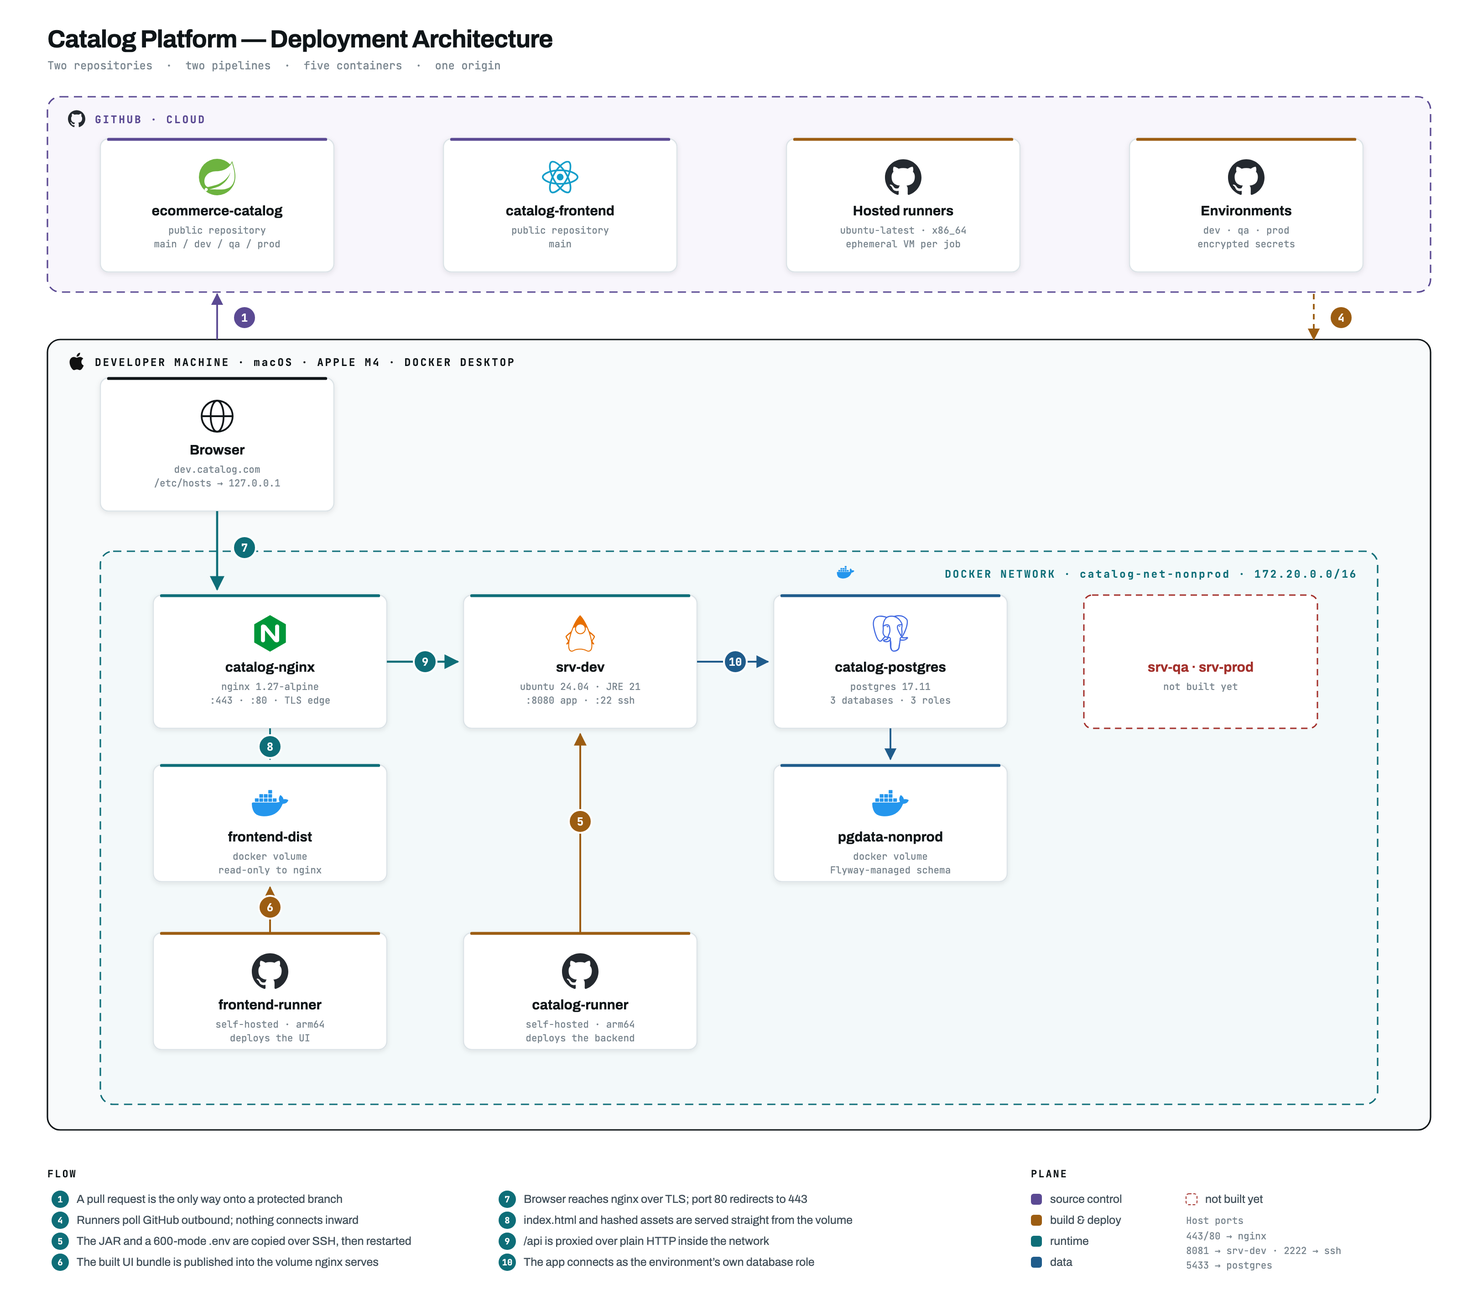
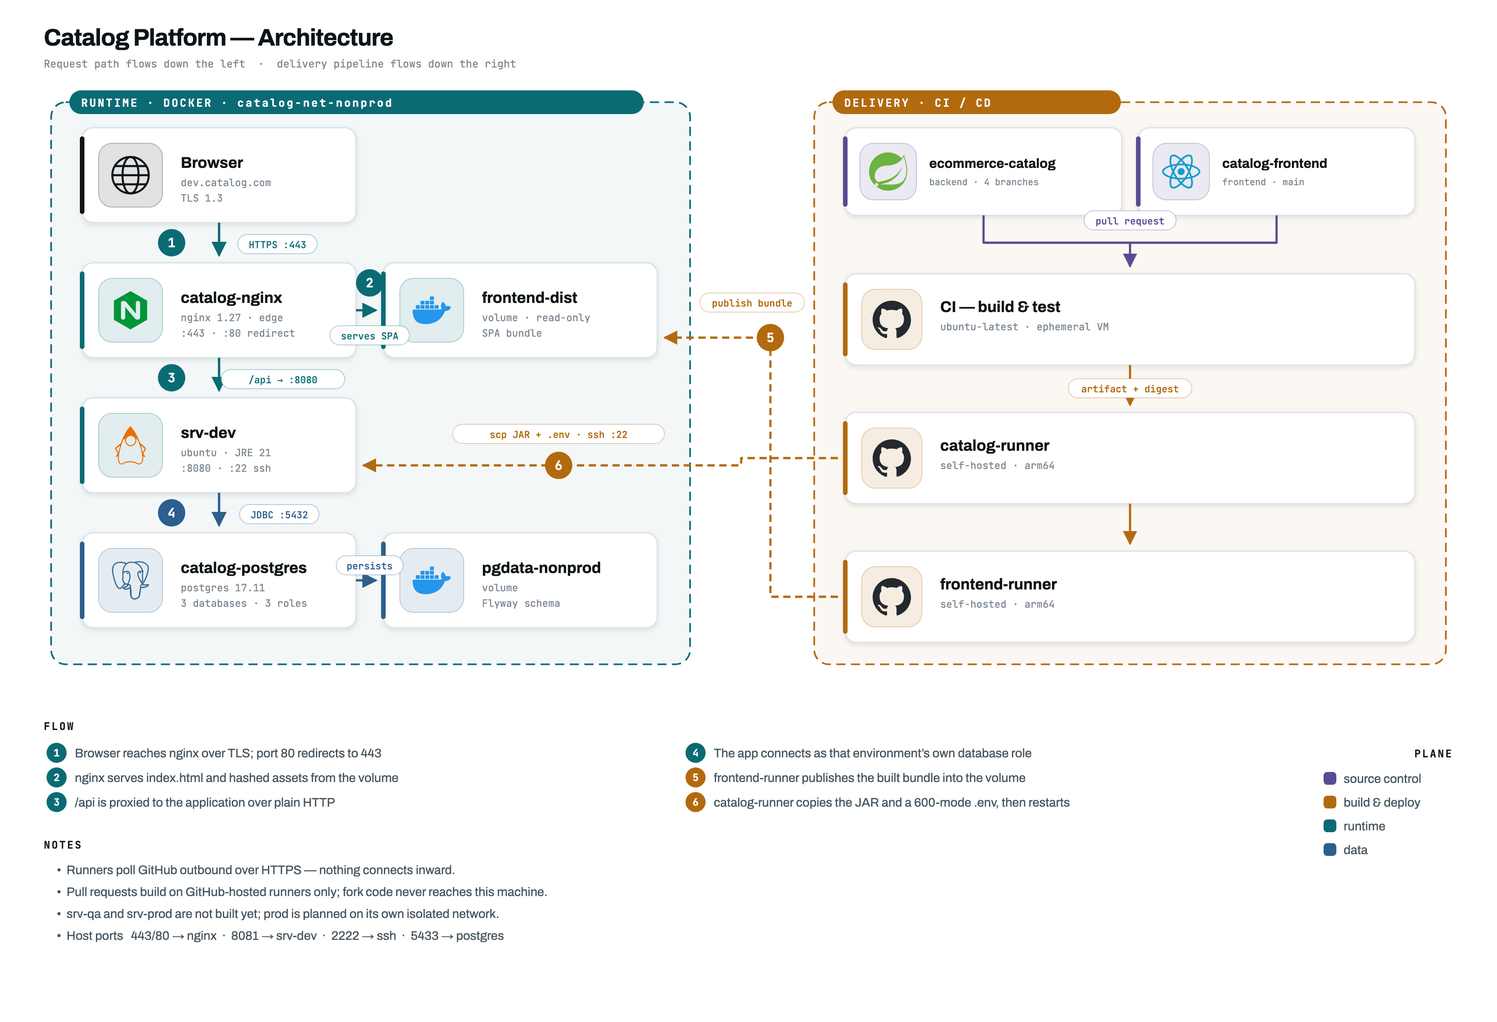
Redraw the architecture diagram to standard conventions
Researched how AWS and general architecture diagrams are actually built,
then rebuilt against those rules rather than guessing again.

What the previous version broke:
- Flow direction was inconsistent. Arrows went down, right and up, so
  there was no line to follow. Now each column flows strictly top to
  bottom: the request path down the left, the delivery pipeline down the
  right, and two dashed connectors crossing right to left for the two
  deployments.
- A connector ran straight through the catalog-frontend card, and its
  label sat on top of it. The repositories are side by side now, so the
  branches converge into CI without crossing anything.
- Colour was a 3px hairline on each card. Icons are now 60px inside
  tinted tiles, so category colour is visible at a glance - the icon
  leads, which is what makes these diagrams readable.
- Detail was crammed into the boxes. Each card carries a name and two
  short lines; everything else moved to a numbered flow key and notes.
- The "developer machine" container was a large empty box adding no
  information. Removed, along with the ghost qa/prod node, which is now
  a note instead.

Every connector is labelled with its protocol, and no connector crosses
a node or points into empty space.

diff --git a/docs/generate-architecture.py b/docs/generate-architecture.py
@@ -2,182 +2,207 @@
 """
 Generates docs/architecture.svg.
 
-Every fact in the diagram is read from the live system rather than drawn
-from memory: container names, images, IP addresses, published ports and
-the network CIDR come from `docker network inspect`, and the branch,
-environment and workflow facts from `gh api`.
+Layout follows the conventions in AWS and general architecture-diagram
+guidance: one flow direction per column and keep to it; no connector
+crossing a node or pointing into empty space; protocol labels on the
+connectors; numbered call-outs where a step needs more than a label;
+grouping containers only where they add clarity; category colour carried
+by the icon tile rather than a hairline.
 
-Brand marks are the real logos from simple-icons, embedded as paths, so
-the SVG has no external references and renders anywhere.
+Left column  - the request path, top to bottom.
+Right column - the delivery pipeline, top to bottom.
+Dashed arrows cross right to left: the two deployments.
+
+Every fact is read from the live system rather than drawn from memory:
+container names, images, ports and the network CIDR from docker inspect,
+and the branch, environment and workflow facts from gh api. Brand marks
+are the real logos from simple-icons, embedded as paths, so the SVG has
+no external references.
 
 Render to PNG:
   python3 docs/generate-architecture.py
   "/Applications/Google Chrome.app/Contents/MacOS/Google Chrome" \\
-    --headless --force-device-scale-factor=2 --window-size=1620,1420 \\
+    --headless --force-device-scale-factor=2 --window-size=1640,1120 \\
     --screenshot=docs/architecture.png file://$PWD/docs/render.html
 """
 import json, pathlib
-
 S = pathlib.Path("/private/tmp/claude-501/-Users-shashikirankulkarni/7b5a6f65-40a9-44f6-a521-8821d92fcbd0/scratchpad")
 P = json.loads((S / "logos" / "paths.json").read_text())
-BRAND = {"docker":"#2496ED","github":"#24292F","react":"#149ECA","postgresql":"#4169E1",
-         "nginx":"#009639","spring":"#6DB33F","openjdk":"#E76F00","apple":"#111111"}
 
-INK, INK2, MUTED = "#0F1518", "#42505A", "#7A868F"
-RULE, SURF, PAPER = "#DCE3E7", "#FFFFFF", "#FFFFFF"
-TEAL, VIOLET, OCHRE, BLUE, CRIM = "#0E6E78", "#5B4A93", "#9C5D12", "#1F5C8B", "#A3302B"
-Z_VIOLET, Z_INK, Z_TEAL = "#F8F6FC", "#F8FAFB", "#F3F9FA"
+BR = {"docker":"#2496ED","github":"#24292F","react":"#149ECA","postgresql":"#336791",
+      "nginx":"#009639","spring":"#6DB33F","openjdk":"#E76F00","apple":"#111111"}
+
+INK, INK2, MUTED = "#0D1418", "#46545E", "#7C8892"
+RULE, SURF, PAPER = "#D8E0E5", "#FFFFFF", "#FFFFFF"
+TEAL, VIOLET, OCHRE, BLUE, CRIM = "#0B6B75", "#5B4A93", "#B26A0F", "#2C5F8D", "#A3302B"
 MONO = "'JetBrains Mono','SF Mono',Menlo,monospace"
 SANS = "'Archivo','Helvetica Neue',Arial,sans-serif"
 
-o = []
+o=[]
 def add(s): o.append(s)
 
-def logo(name, cx, cy, size=40, color=None):
-    if name not in P: return
-    s = size / 24
-    add(f'<g transform="translate({cx-size/2:.1f},{cy-size/2:.1f}) scale({s:.4f})">'
-        f'<path d="{P[name]}" fill="{color or BRAND.get(name, INK)}"/></g>')
+def tile(x, y, s, icon, color):
+    """Large colour-filled icon tile - the icon leads, the colour carries the category."""
+    add(f'<rect x="{x}" y="{y}" width="{s}" height="{s}" rx="15" fill="{color}" fill-opacity="0.12"/>')
+    add(f'<rect x="{x}" y="{y}" width="{s}" height="{s}" rx="15" fill="none" stroke="{color}" stroke-opacity="0.28"/>')
+    if icon in P:
+        k = 42/24
+        add(f'<g transform="translate({x+(s-42)/2:.1f},{y+(s-42)/2:.1f}) scale({k:.4f})">'
+            f'<path d="{P[icon]}" fill="{BR.get(icon, color)}"/></g>')
 
-def glyph_browser(cx, cy, r=17):
-    add(f'<g stroke="{INK}" stroke-width="1.9" fill="none"><circle cx="{cx}" cy="{cy}" r="{r}"/>'
-        f'<ellipse cx="{cx}" cy="{cy}" rx="{r*0.42:.1f}" ry="{r}"/><path d="M{cx-r} {cy}h{2*r}"/></g>')
+def globe(x, y, s, color):
+    add(f'<rect x="{x}" y="{y}" width="{s}" height="{s}" rx="15" fill="{color}" fill-opacity="0.12"/>')
+    add(f'<rect x="{x}" y="{y}" width="{s}" height="{s}" rx="15" fill="none" stroke="{color}" stroke-opacity="0.28"/>')
+    cx, cy, r = x+s/2, y+s/2, 20
+    add(f'<g stroke="{color}" stroke-width="2.2" fill="none"><circle cx="{cx}" cy="{cy}" r="{r}"/>'
+        f'<ellipse cx="{cx}" cy="{cy}" rx="{r*0.44:.1f}" ry="{r}"/><path d="M{cx-r} {cy}h{2*r}"/>'
+        f'<path d="M{cx-r*0.86:.1f} {cy-r*0.5:.1f}h{1.72*r:.1f}M{cx-r*0.86:.1f} {cy+r*0.5:.1f}h{1.72*r:.1f}"/></g>')
 
-def node(x, y, w, h, name, lines, accent, icon=None, glyph=None, ghost=False):
-    if ghost:
-        add(f'<rect x="{x}" y="{y}" width="{w}" height="{h}" rx="9" fill="{SURF}" stroke="{CRIM}" '
-            f'stroke-width="1.5" stroke-dasharray="7 5"/>')
-    else:
-        add(f'<rect x="{x}" y="{y}" width="{w}" height="{h}" rx="9" fill="{SURF}" stroke="{RULE}" '
-            f'stroke-width="1.3" filter="url(#sh)"/>')
-        add(f'<path d="M{x+9} {y+0.7} H{x+w-9}" stroke="{accent}" stroke-width="3.2" stroke-linecap="round"/>')
-    cx = x + w/2
-    if icon: logo(icon, cx, y+42, 40)
-    if glyph: glyph(cx, y+42)
-    add(f'<text x="{cx}" y="{y+84}" font-family="{SANS}" font-size="15" font-weight="700" '
-        f'fill="{CRIM if ghost else INK}" text-anchor="middle">{name}</text>')
-    yy = y + 104
-    for ln in lines:
-        add(f'<text x="{cx}" y="{yy}" font-family="{MONO}" font-size="10.5" fill="{MUTED}" '
-            f'text-anchor="middle">{ln}</text>')
-        yy += 15
+def card(x, y, w, h, icon, color, title, sub, sub2=None, glyph=False):
+    add(f'<rect x="{x}" y="{y}" width="{w}" height="{h}" rx="12" fill="{SURF}" stroke="{RULE}" '
+        f'stroke-width="1.3" filter="url(#sh)"/>')
+    add(f'<path d="M{x} {y+12} v{h-24}" stroke="{color}" stroke-width="5" stroke-linecap="round"/>')
+    ts = h - 34
+    (globe if glyph else tile)(x+18, y+17, ts, color) if glyph else tile(x+18, y+17, ts, icon, color)
+    tx = x + 18 + ts + 20
+    add(f'<text x="{tx}" y="{y+h/2-8}" font-family="{SANS}" font-size="17" font-weight="700" fill="{INK}">{title}</text>')
+    add(f'<text x="{tx}" y="{y+h/2+12}" font-family="{MONO}" font-size="11" fill="{MUTED}">{sub}</text>')
+    if sub2:
+        add(f'<text x="{tx}" y="{y+h/2+29}" font-family="{MONO}" font-size="11" fill="{MUTED}">{sub2}</text>')
 
-def zone(x, y, w, h, color, fill, label, icon=None, dashed=True, right=False):
-    d = ' stroke-dasharray="9 6"' if dashed else ""
-    add(f'<rect x="{x}" y="{y}" width="{w}" height="{h}" rx="14" fill="{fill}" stroke="{color}" '
-        f'stroke-width="1.6"{d}/>')
-    if right:
-        tx = x + w - 22
-        add(f'<text x="{tx}" y="{y+29}" font-family="{MONO}" font-size="11.5" font-weight="700" '
-            f'letter-spacing="1.8" fill="{color}" text-anchor="end">{label}</text>')
-        if icon: logo(icon, tx - 8.2*len(label) - 20, y+23, 19)
-    else:
-        tx = x + 22
-        if icon:
-            logo(icon, tx+10, y+24, 19); tx += 30
-        add(f'<text x="{tx}" y="{y+29}" font-family="{MONO}" font-size="11.5" font-weight="700" '
-            f'letter-spacing="1.8" fill="{color}">{label}</text>')
+def card_sm(x, y, w, h, icon, color, title, sub):
+    add(f'<rect x="{x}" y="{y}" width="{w}" height="{h}" rx="12" fill="{SURF}" stroke="{RULE}" '
+        f'stroke-width="1.3" filter="url(#sh)"/>')
+    add(f'<path d="M{x} {y+12} v{h-24}" stroke="{color}" stroke-width="5" stroke-linecap="round"/>')
+    ts = h - 34
+    tile(x+16, y+17, ts, icon, color)
+    tx = x + 16 + ts + 14
+    add(f'<text x="{tx}" y="{y+h/2-4}" font-family="{SANS}" font-size="14.5" font-weight="700" fill="{INK}">{title}</text>')
+    add(f'<text x="{tx}" y="{y+h/2+15}" font-family="{MONO}" font-size="10" fill="{MUTED}">{sub}</text>')
 
-def arrow(d, color=MUTED, w=1.9, dash=None):
+def zone(x, y, w, h, color, label, tintop="0.05"):
+    add(f'<rect x="{x}" y="{y}" width="{w}" height="{h}" rx="16" fill="{color}" fill-opacity="{tintop}" '
+        f'stroke="{color}" stroke-width="1.8" stroke-dasharray="10 6"/>')
+    add(f'<rect x="{x+20}" y="{y-13}" width="{11.6*len(label)+26}" height="26" rx="13" fill="{color}"/>')
+    add(f'<text x="{x+33}" y="{y+5}" font-family="{MONO}" font-size="12" font-weight="700" '
+        f'letter-spacing="1.8" fill="#fff">{label}</text>')
+
+def arrow(d, color, w=2.6, dash=None):
     da = f' stroke-dasharray="{dash}"' if dash else ""
-    add(f'<path d="{d}" fill="none" stroke="{color}" stroke-width="{w}"{da} marker-end="url(#m-{color[1:]})"/>')
+    add(f'<path d="{d}" fill="none" stroke="{color}" stroke-width="{w}" stroke-linejoin="round"{da} '
+        f'marker-end="url(#m-{color[1:]})"/>')
 
-def step(n, cx, cy, color=TEAL, r=12.5):
-    add(f'<circle cx="{cx}" cy="{cy}" r="{r}" fill="{color}" stroke="#fff" stroke-width="2"/>'
-        f'<text x="{cx}" y="{cy+4.4}" font-family="{MONO}" font-size="12" font-weight="700" '
-        f'fill="#fff" text-anchor="middle">{n}</text>')
+def label(t, x, y, color, anchor="middle"):
+    add(f'<rect x="{x - (6.9*len(t))/2 - 9}" y="{y-13}" width="{6.9*len(t)+18}" height="21" rx="10.5" '
+        f'fill="#fff" stroke="{color}" stroke-opacity="0.3"/>')
+    add(f'<text x="{x}" y="{y+2}" font-family="{MONO}" font-size="10.5" font-weight="500" fill="{color}" '
+        f'text-anchor="{anchor}">{t}</text>')
 
-W, H = 1620, 1420
+def step(n, x, y, color):
+    add(f'<circle cx="{x}" cy="{y}" r="15" fill="{color}"/>'
+        f'<text x="{x}" y="{y+5.2}" font-family="{MONO}" font-size="14" font-weight="700" fill="#fff" '
+        f'text-anchor="middle">{n}</text>')
+
+W, H = 1640, 1120
 add(f'<svg xmlns="http://www.w3.org/2000/svg" width="{W}" height="{H}" viewBox="0 0 {W} {H}">')
 add('<defs>')
-for c in (MUTED, TEAL, OCHRE, BLUE, VIOLET):
-    add(f'<marker id="m-{c[1:]}" viewBox="0 0 10 10" refX="9.2" refY="5" markerWidth="7" markerHeight="7" '
+for c in (MUTED, TEAL, OCHRE, BLUE, VIOLET, CRIM):
+    add(f'<marker id="m-{c[1:]}" viewBox="0 0 10 10" refX="9" refY="5" markerWidth="6.5" markerHeight="6.5" '
         f'orient="auto-start-reverse"><path d="M0 0 L10 5 L0 10 z" fill="{c}"/></marker>')
-add('<filter id="sh" x="-12%" y="-12%" width="126%" height="130%">'
-    '<feDropShadow dx="0" dy="1.6" stdDeviation="2.6" flood-color="#0F1518" flood-opacity="0.09"/></filter>')
+add('<filter id="sh" x="-10%" y="-10%" width="122%" height="128%">'
+    '<feDropShadow dx="0" dy="2" stdDeviation="3" flood-color="#0D1418" flood-opacity="0.10"/></filter>')
 add('</defs>')
 add(f'<rect width="{W}" height="{H}" fill="{PAPER}"/>')
 
-add(f'<text x="52" y="52" font-family="{SANS}" font-size="27" font-weight="700" fill="{INK}" '
-    f'letter-spacing="-0.5">Catalog Platform &mdash; Deployment Architecture</text>')
-add(f'<text x="52" y="76" font-family="{MONO}" font-size="12" fill="{MUTED}">'
-    f'Two repositories &nbsp;&middot;&nbsp; two pipelines &nbsp;&middot;&nbsp; five containers &nbsp;&middot;&nbsp; one origin</text>')
+add(f'<text x="48" y="50" font-family="{SANS}" font-size="26" font-weight="700" fill="{INK}" '
+    f'letter-spacing="-0.5">Catalog Platform &mdash; Architecture</text>')
+add(f'<text x="48" y="74" font-family="{MONO}" font-size="11.5" fill="{MUTED}">'
+    f'Request path flows down the left &nbsp;&middot;&nbsp; delivery pipeline flows down the right</text>')
 
-NW, NH, NH2 = 256, 146, 128
+CW, CH = 300, 104
+LX1, LX2 = 90, 420
+RX = 926; RW = 624
+rows = [140, 288, 436, 584]
 
-# GITHUB
-zone(52, 106, 1516, 214, VIOLET, Z_VIOLET, "GITHUB &middot; CLOUD", "github")
-gc = [110, 486, 862, 1238]
-node(gc[0], 152, NW, NH, "ecommerce-catalog", ["public repository", "main / dev / qa / prod"], VIOLET, icon="spring")
-node(gc[1], 152, NW, NH, "catalog-frontend",  ["public repository", "main"], VIOLET, icon="react")
-node(gc[2], 152, NW, NH, "Hosted runners",    ["ubuntu-latest &middot; x86_64", "ephemeral VM per job"], OCHRE, icon="github")
-node(gc[3], 152, NW, NH, "Environments",      ["dev &middot; qa &middot; prod", "encrypted secrets"], OCHRE, icon="github")
+zone(56, 112, 700, 616, TEAL, "RUNTIME &middot; DOCKER &middot; catalog-net-nonprod")
+zone(892, 112, 692, 616, OCHRE, "DELIVERY &middot; CI / CD")
 
-# LAPTOP
-zone(52, 372, 1516, 866, INK, Z_INK, "DEVELOPER MACHINE &middot; macOS &middot; APPLE M4 &middot; DOCKER DESKTOP", "apple", dashed=False)
-node(110, 414, NW, NH, "Browser", ["dev.catalog.com", "/etc/hosts &rarr; 127.0.0.1"], INK, glyph=glyph_browser)
+# ---- left column: request path, strictly top-to-bottom
+card(LX1, rows[0], CW, CH, None, INK,  "Browser",          "dev.catalog.com", "TLS 1.3", glyph=True)
+card(LX1, rows[1], CW, CH, "nginx", TEAL, "catalog-nginx", "nginx 1.27 &middot; edge", ":443 &middot; :80 redirect")
+card(LX1, rows[2], CW, CH, "openjdk", TEAL, "srv-dev",     "ubuntu &middot; JRE 21", ":8080 &middot; :22 ssh")
+card(LX1, rows[3], CW, CH, "postgresql", BLUE, "catalog-postgres", "postgres 17.11", "3 databases &middot; 3 roles")
 
-# DOCKER  — label right-aligned so no arrow crosses it
-zone(110, 604, 1400, 606, TEAL, Z_TEAL, "DOCKER NETWORK &middot; catalog-net-nonprod &middot; 172.20.0.0/16", "docker", right=True)
-c1, c2, c3, c4 = 168, 508, 848, 1188
-rA, rB, rC = 652, 838, 1022
+card(LX2, rows[1], CW, CH, "docker", TEAL, "frontend-dist", "volume &middot; read-only", "SPA bundle")
+card(LX2, rows[3], CW, CH, "docker", BLUE, "pgdata-nonprod", "volume", "Flyway schema")
 
-node(c1, rA, NW, NH,  "catalog-nginx",    ["nginx 1.27-alpine", ":443 &middot; :80 &middot; TLS edge"], TEAL, icon="nginx")
-node(c2, rA, NW, NH,  "srv-dev",          ["ubuntu 24.04 &middot; JRE 21", ":8080 app &middot; :22 ssh"], TEAL, icon="openjdk")
-node(c3, rA, NW, NH,  "catalog-postgres", ["postgres 17.11", "3 databases &middot; 3 roles"], BLUE, icon="postgresql")
-node(c4, rA, NW, NH,  "srv-qa &middot; srv-prod", ["not built yet"], CRIM, ghost=True)
+# ---- right column: pipeline, strictly top-to-bottom
+rrows = [140, 300, 452, 604]
+HW = (RW - 18) / 2
+card_sm(RX,        rrows[0], HW, 96, "spring", VIOLET, "ecommerce-catalog", "backend &middot; 4 branches")
+card_sm(RX+HW+18,  rrows[0], HW, 96, "react",  VIOLET, "catalog-frontend",  "frontend &middot; main")
+card(RX, rrows[1], RW, 100, "github", OCHRE,  "CI &mdash; build &amp; test", "ubuntu-latest &middot; ephemeral VM")
+card(RX, rrows[2], RW, 100, "github", OCHRE,  "catalog-runner",    "self-hosted &middot; arm64")
+card(RX, rrows[3], RW, 100, "github", OCHRE,  "frontend-runner",   "self-hosted &middot; arm64")
 
-node(c1, rB, NW, NH2, "frontend-dist",    ["docker volume", "read-only to nginx"], TEAL, icon="docker")
-node(c3, rB, NW, NH2, "pgdata-nonprod",   ["docker volume", "Flyway-managed schema"], BLUE, icon="docker")
+# ---- request path arrows (left, top-down)
+mid = LX1 + CW/2
+arrow(f"M{mid} {rows[0]+CH} L{mid} {rows[1]-8}", TEAL);  step(1, mid-52, (rows[0]+CH+rows[1])/2, TEAL); label("HTTPS :443", mid+64, (rows[0]+CH+rows[1])/2+4, TEAL)
+arrow(f"M{mid} {rows[1]+CH} L{mid} {rows[2]-8}", TEAL);  step(3, mid-52, (rows[1]+CH+rows[2])/2, TEAL); label("/api &rarr; :8080", mid+70, (rows[1]+CH+rows[2])/2+4, TEAL)
+arrow(f"M{mid} {rows[2]+CH} L{mid} {rows[3]-8}", BLUE);  step(4, mid-52, (rows[2]+CH+rows[3])/2, BLUE); label("JDBC :5432", mid+66, (rows[2]+CH+rows[3])/2+4, BLUE)
+arrow(f"M{LX1+CW} {rows[1]+CH/2} L{LX2-8} {rows[1]+CH/2}", TEAL); step(2, (LX1+CW+LX2)/2, rows[1]+CH/2-30, TEAL); label("serves SPA", (LX1+CW+LX2)/2, rows[1]+CH/2+30, TEAL)
+arrow(f"M{LX1+CW} {rows[3]+CH/2} L{LX2-8} {rows[3]+CH/2}", BLUE); label("persists", (LX1+CW+LX2)/2, rows[3]+CH/2-14, BLUE)
 
-node(c1, rC, NW, NH2, "frontend-runner",  ["self-hosted &middot; arm64", "deploys the UI"], OCHRE, icon="github")
-node(c2, rC, NW, NH2, "catalog-runner",   ["self-hosted &middot; arm64", "deploys the backend"], OCHRE, icon="github")
+# ---- pipeline arrows (right, top-down)
+rmid = RX + RW/2
+q1, q2 = RX + HW/2, RX + HW + 18 + HW/2
+jy = rrows[0] + 96 + 30
+arrow(f"M{q1} {rrows[0]+96} L{q1} {jy} L{rmid} {jy} L{rmid} {rrows[1]-8}", VIOLET, 2.4)
+add(f'<path d="M{q2} {rrows[0]+96} L{q2} {jy} L{rmid} {jy}" fill="none" stroke="{VIOLET}" stroke-width="2.4" stroke-linejoin="round"/>')
+label("pull request", rmid, jy - 22, VIOLET)
+arrow(f"M{rmid} {rrows[1]+100} L{rmid} {rrows[2]-8}", OCHRE, 2.4)
+label("artifact + digest", rmid, rrows[1]+128, OCHRE)
+arrow(f"M{rmid} {rrows[2]+100} L{rmid} {rrows[3]-8}", OCHRE, 2.4)
 
-# edges
-arrow("M238 372 L238 322", VIOLET);                       step(1, 268, 348, VIOLET)
-arrow("M1440 322 L1440 372", OCHRE, dash="6 5");          step(4, 1470, 348, OCHRE)
-arrow("M238 560 L238 646", TEAL, 2.3);                    step(7, 268, 600, TEAL)
-arrow(f"M{c1+NW} {rA+73} L{c2-6} {rA+73}", TEAL, 2.3);    step(9, (c1+NW+c2)/2, rA+73, TEAL)
-arrow(f"M{c2+NW} {rA+73} L{c3-6} {rA+73}", BLUE, 2.0);    step(10, (c2+NW+c3)/2, rA+73, BLUE)
-arrow(f"M{c1+NW/2} {rA+NH} L{c1+NW/2} {rB-6}", TEAL, 1.9); step(8, c1+NW/2, (rA+NH+rB)/2, TEAL)
-arrow(f"M{c3+NW/2} {rA+NH} L{c3+NW/2} {rB-6}", BLUE, 1.9)
-arrow(f"M{c1+NW/2} {rC} L{c1+NW/2} {rB+NH2+6}", OCHRE, 2.0); step(6, c1+NW/2, (rB+NH2+rC)/2, OCHRE)
-arrow(f"M{c2+NW/2} {rC} L{c2+NW/2} {rA+NH+6}", OCHRE, 2.0); step(5, c2+NW/2, (rA+NH+rC)/2 - 10, OCHRE)
+# ---- deploy arrows: right column into left column, no crossings
+y_be = rows[2] + CH/2 + 22
+arrow(f"M{RX-8} {rrows[2]+50} L{812} {rrows[2]+50} L{812} {y_be} L{LX1+CW+8} {y_be}", OCHRE, 2.4, dash="8 5")
+step(6, 612, y_be, OCHRE); label("scp JAR + .env &middot; ssh :22", 612, y_be-32, OCHRE)
 
-# ---------- legend ----------
-LY = 1290
-add(f'<text x="52" y="{LY}" font-family="{MONO}" font-size="11" font-weight="700" letter-spacing="1.5" fill="{INK}">FLOW</text>')
-steps = [
-    (1, "A pull request is the only way onto a protected branch"),
-    (4, "Runners poll GitHub outbound; nothing connects inward"),
-    (5, "The JAR and a 600-mode .env are copied over SSH, then restarted"),
-    (6, "The built UI bundle is published into the volume nginx serves"),
-    (7, "Browser reaches nginx over TLS; port 80 redirects to 443"),
-    (8, "index.html and hashed assets are served straight from the volume"),
-    (9, "/api is proxied over plain HTTP inside the network"),
-    (10, "The app connects as the environment&rsquo;s own database role"),
-]
-for i, (n, t) in enumerate(steps):
-    cx = 66 + (i // 4) * 490
-    yy = LY + 28 + (i % 4) * 23
-    add(f'<circle cx="{cx}" cy="{yy-4}" r="9.5" fill="{TEAL}"/>')
-    add(f'<text x="{cx}" y="{yy-0.4}" font-family="{MONO}" font-size="9.5" font-weight="700" fill="#fff" text-anchor="middle">{n}</text>')
-    add(f'<text x="{cx+18}" y="{yy}" font-family="{SANS}" font-size="12.5" fill="{INK2}">{t}</text>')
+y_fe = rows[1] + CH/2 + 30
+arrow(f"M{RX-8} {rrows[3]+50} L{844} {rrows[3]+50} L{844} {y_fe} L{LX2+CW+8} {y_fe}", OCHRE, 2.4, dash="8 5")
+step(5, 844, y_fe, OCHRE); label("publish bundle", 824, y_fe-36, OCHRE)
 
-KX = 1130
-add(f'<text x="{KX}" y="{LY}" font-family="{MONO}" font-size="11" font-weight="700" letter-spacing="1.5" fill="{INK}">PLANE</text>')
-for i, (c, lbl) in enumerate([(VIOLET,"source control"), (OCHRE,"build &amp; deploy"),
-                              (TEAL,"runtime"), (BLUE,"data")]):
-    yy = LY + 28 + i * 23
-    add(f'<rect x="{KX}" y="{yy-10}" width="12" height="12" rx="3" fill="{c}"/>')
-    add(f'<text x="{KX+21}" y="{yy}" font-family="{SANS}" font-size="12.5" fill="{INK2}">{lbl}</text>')
-add(f'<rect x="{KX+170}" y="{LY+18}" width="12" height="12" rx="3" fill="none" stroke="{CRIM}" stroke-dasharray="3 2"/>')
-add(f'<text x="{KX+191}" y="{LY+28}" font-family="{SANS}" font-size="12.5" fill="{INK2}">not built yet</text>')
-add(f'<text x="{KX+170}" y="{LY+51}" font-family="{MONO}" font-size="10.5" fill="{MUTED}">Host ports</text>')
-add(f'<text x="{KX+170}" y="{LY+68}" font-family="{MONO}" font-size="10.5" fill="{MUTED}">443/80 &rarr; nginx</text>')
-add(f'<text x="{KX+170}" y="{LY+84}" font-family="{MONO}" font-size="10.5" fill="{MUTED}">8081 &rarr; srv-dev &middot; 2222 &rarr; ssh</text>')
-add(f'<text x="{KX+170}" y="{LY+100}" font-family="{MONO}" font-size="10.5" fill="{MUTED}">5433 &rarr; postgres</text>')
+# ---- legend
+LY = 800
+add(f'<text x="48" y="{LY}" font-family="{MONO}" font-size="11.5" font-weight="700" letter-spacing="1.6" fill="{INK}">FLOW</text>')
+steps = [("1","Browser reaches nginx over TLS; port 80 redirects to 443"),
+         ("2","nginx serves index.html and hashed assets from the volume"),
+         ("3","/api is proxied to the application over plain HTTP"),
+         ("4","The app connects as that environment&rsquo;s own database role"),
+         ("5","frontend-runner publishes the built bundle into the volume"),
+         ("6","catalog-runner copies the JAR and a 600-mode .env, then restarts")]
+for i,(n,t) in enumerate(steps):
+    cx = 62 + (i//3)*700; yy = LY+30+(i%3)*27
+    c = TEAL if n in "1234" else OCHRE
+    add(f'<circle cx="{cx}" cy="{yy-5}" r="11" fill="{c}"/>')
+    add(f'<text x="{cx}" y="{yy-1}" font-family="{MONO}" font-size="11" font-weight="700" fill="#fff" text-anchor="middle">{n}</text>')
+    add(f'<text x="{cx+20}" y="{yy}" font-family="{SANS}" font-size="13.5" fill="{INK2}">{t}</text>')
+
+add(f'<text x="48" y="{LY+130}" font-family="{MONO}" font-size="11.5" font-weight="700" letter-spacing="1.6" fill="{INK}">NOTES</text>')
+notes = ["Runners poll GitHub outbound over HTTPS &mdash; nothing connects inward.",
+         "Pull requests build on GitHub-hosted runners only; fork code never reaches this machine.",
+         "srv-qa and srv-prod are not built yet; prod is planned on its own isolated network.",
+         "Host ports &nbsp; 443/80 &rarr; nginx &nbsp;&middot;&nbsp; 8081 &rarr; srv-dev &nbsp;&middot;&nbsp; 2222 &rarr; ssh &nbsp;&middot;&nbsp; 5433 &rarr; postgres"]
+for i,t in enumerate(notes):
+    add(f'<text x="62" y="{LY+158+i*24}" font-family="{SANS}" font-size="13.5" fill="{INK2}">&bull;&nbsp; {t}</text>')
+
+add(f'<text x="{W-48}" y="{LY+30}" font-family="{MONO}" font-size="11.5" font-weight="700" letter-spacing="1.6" fill="{INK}" text-anchor="end">PLANE</text>')
+for i,(c,l) in enumerate([(VIOLET,"source control"),(OCHRE,"build &amp; deploy"),(TEAL,"runtime"),(BLUE,"data")]):
+    yy = LY+58+i*26
+    add(f'<rect x="{W-190}" y="{yy-12}" width="14" height="14" rx="4" fill="{c}"/>')
+    add(f'<text x="{W-168}" y="{yy}" font-family="{SANS}" font-size="13.5" fill="{INK2}">{l}</text>')
 
 add('</svg>')
-(S / "architecture-diagram.svg").write_text("".join(o))
+(S/"architecture-diagram.svg").write_text("".join(o))
 print("wrote", len("".join(o)), "bytes")
